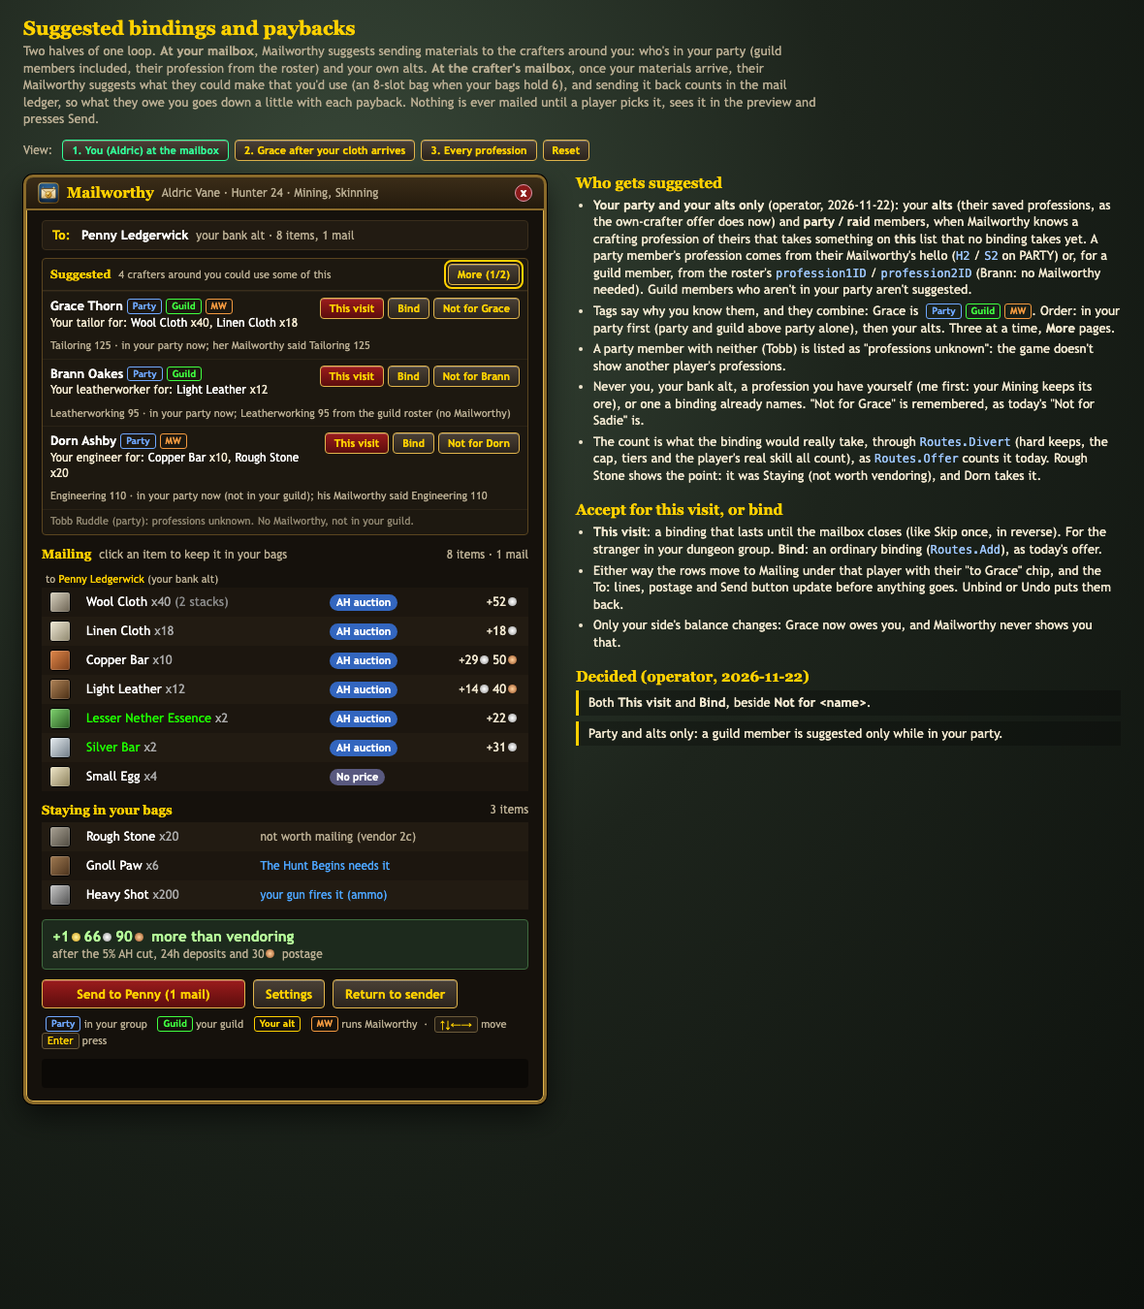
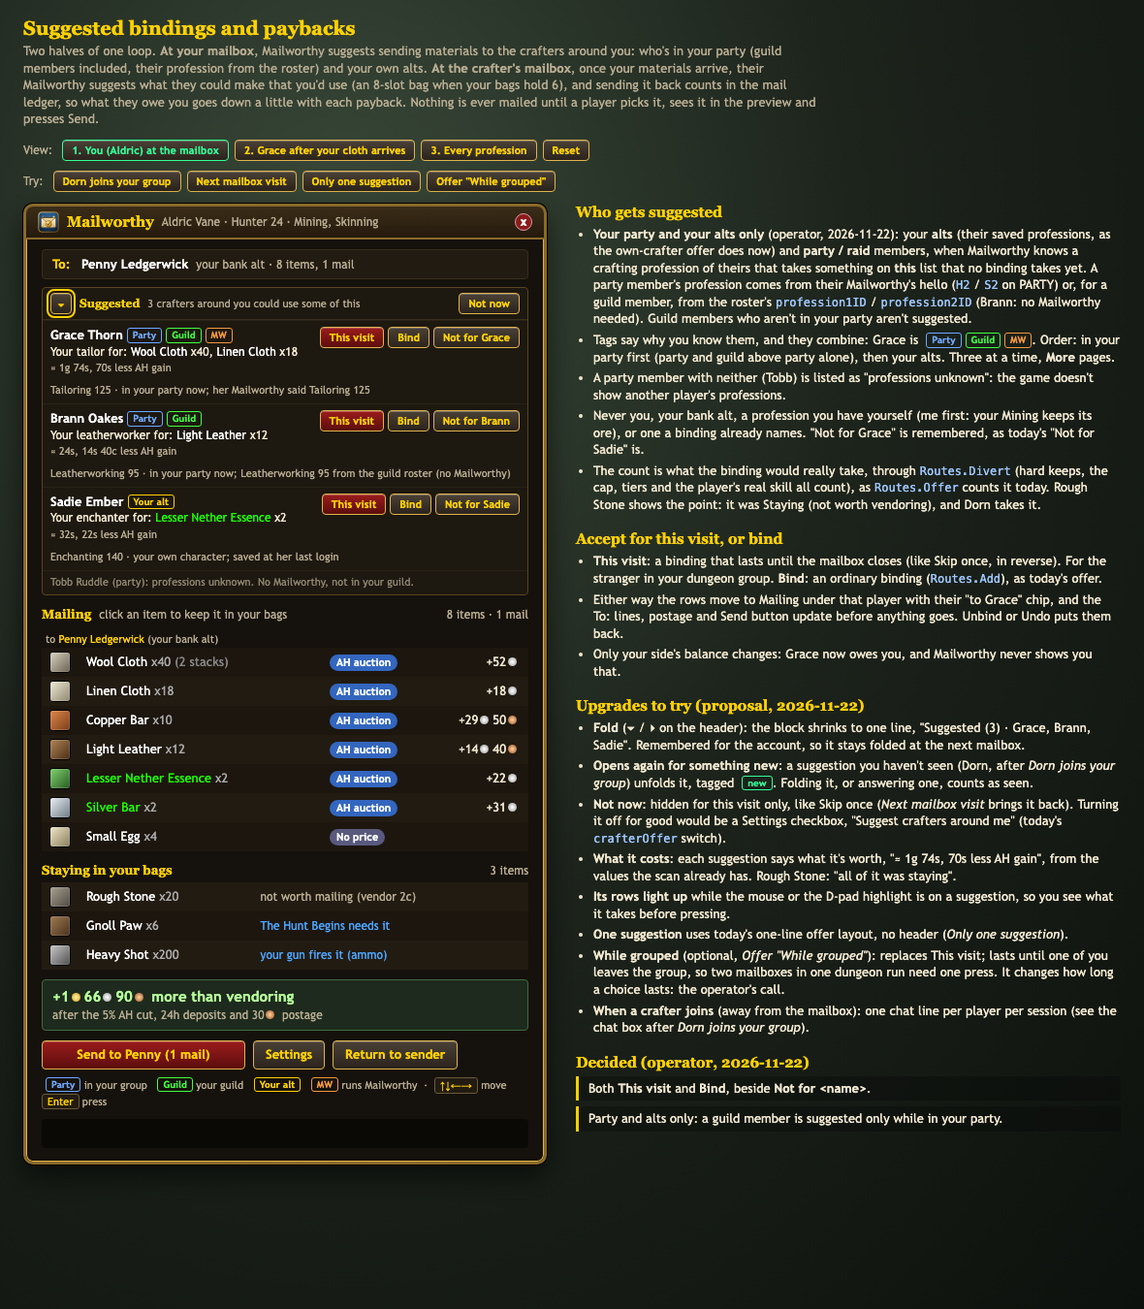
docs: suggestion screen upgrades to try (fold, Not now, cost, row highlight, While grouped, chat lines)
The sheet's "Try:" buttons: a crafter joining (the folded block opens with a
"new" one first), the next mailbox visit, a single suggestion (one-line form),
While grouped instead of This visit, and the crafter opening Tailoring (a chat
line with the payback ideas). Not decided; listed in RECOMMENDATIONS.md 5b.

Changed region(s): [[0.4881, 0.1244, 0.9763, 0.8711], [0.0, 0.1244, 0.4881, 0.9022]]

diff --git a/media/recommendations-prototype.html b/media/recommendations-prototype.html
@@ -77,7 +77,16 @@
   .sugg .head { display: flex; align-items: center; gap: 8px; padding: 5px 8px; border-bottom: 1px solid #3a2e1c; }
   .sugg .head b { color: var(--gold); font: bold 12px Georgia, serif; }
   .sugg .head .dim { color: var(--dim); font-size: 11px; }
-  .sugg .head .btn { margin-left: auto; }
+  .sugg .head .right, .ideas .head .right { margin-left: auto; display: flex; gap: 4px; }
+  .btn.fold { min-width: 0; width: 22px; padding: 0; }
+  .tag.fresh { color: var(--mint); }
+  .cost { color: var(--dim); font-size: 11px; white-space: nowrap; }
+  .s.one .what { font-size: 12px; }
+  .link { color: var(--note); cursor: pointer; text-decoration: underline; }
+  tr.hlrow td { background: #3a3014 !important; }
+  tr.hlrow td:first-child { box-shadow: inset 3px 0 0 var(--gold); }
+  .scen { display: flex; gap: 6px; flex-wrap: wrap; margin: -4px 0 12px; align-items: center; }
+  .scen span.l { color: var(--dim); font-size: 12px; margin-right: 4px; }
   .s { padding: 6px 8px; border-top: 1px solid #2a2216; display: grid; grid-template-columns: 1fr auto; gap: 4px 8px; }
   .s:first-of-type { border-top: 0; }
   .s .nm { color: var(--white); font-weight: bold; }
@@ -193,6 +202,11 @@
 
   <!-- View 1 ============================================================================================== -->
   <div class="view on" id="v1">
+    <div class="scen"><span class="l">Try:</span>
+      <span class="btn grey small" data-scen="dorn">Dorn joins your group</span>
+      <span class="btn grey small" data-scen="nextvisit">Next mailbox visit</span>
+      <span class="btn grey small" data-scen="one">Only one suggestion</span>
+      <span class="btn grey small" data-scen="grouped">Offer "While grouped"</span></div>
     <div class="layout">
       <div style="position:relative">
         <div class="frame" data-frame="v1">
@@ -241,6 +255,23 @@
             Send button update before anything goes. Unbind or Undo puts them back.</li>
           <li>Only your side's balance changes: Grace now owes you, and Mailworthy never shows you that.</li>
         </ul>
+        <h2>Upgrades to try (proposal, 2026-11-22)</h2>
+        <ul>
+          <li><b>Fold</b> (▾ / ▸ on the header): the block shrinks to one line, "Suggested (3) · Grace, Brann, Sadie". Remembered for
+            the account, so it stays folded at the next mailbox.</li>
+          <li><b>Opens again for something new</b>: a suggestion you haven't seen (Dorn, after <i>Dorn joins your group</i>) unfolds
+            it, tagged <span class="tag fresh">new</span>. Folding it, or answering one, counts as seen.</li>
+          <li><b>Not now</b>: hidden for this visit only, like Skip once (<i>Next mailbox visit</i> brings it back). Turning it off for
+            good would be a Settings checkbox, "Suggest crafters around me" (today's <code>crafterOffer</code> switch).</li>
+          <li><b>What it costs</b>: each suggestion says what it's worth, "≈ 1g 74s, 70s less AH gain", from the values the scan
+            already has. Rough Stone: "all of it was staying".</li>
+          <li><b>Its rows light up</b> while the mouse or the D-pad highlight is on a suggestion, so you see what it takes before pressing.</li>
+          <li><b>One suggestion</b> uses today's one-line offer layout, no header (<i>Only one suggestion</i>).</li>
+          <li><b>While grouped</b> (optional, <i>Offer "While grouped"</i>): replaces This visit; lasts until one of you leaves the
+            group, so two mailboxes in one dungeon run need one press. It changes how long a choice lasts: the operator's call.</li>
+          <li><b>When a crafter joins</b> (away from the mailbox): one chat line per player per session (see the chat box after
+            <i>Dorn joins your group</i>).</li>
+        </ul>
         <h2>Decided (operator, 2026-11-22)</h2>
         <div class="q">Both <b>This visit</b> and <b>Bind</b>, beside <b>Not for &lt;name&gt;</b>.</div>
         <div class="q">Party and alts only: a guild member is suggested only while in your party.</div>
@@ -250,6 +281,8 @@
 
   <!-- View 2 ============================================================================================== -->
   <div class="view" id="v2">
+    <div class="scen"><span class="l">Try:</span>
+      <span class="btn grey small" data-scen="tailoring">Open your Tailoring window</span></div>
     <div class="layout">
       <div style="position:relative">
         <div class="frame" data-frame="v2">
@@ -300,6 +333,13 @@
           <li>A payback is valued like any mail, at its auction price. A crafted item with no price (the shirt) is valued at its
             materials, and Aldric's side counts that value only up to what he'd sent Grace: a payback can clear a debt, never make one.</li>
           <li>Only Grace's own side shows. Aldric gets "Grace Thorn made you a Woolen Bag" in chat; he never sees what she owed.</li>
+        </ul>
+        <h2>Upgrades to try (proposal)</h2>
+        <ul>
+          <li><b>At the profession window</b>: opening Tailoring prints one chat line with the ideas she can make right now
+            (<i>Open your Tailoring window</i>). <code>TierCheck</code> already listens to that window's events; nothing is written
+            into Blizzard's window.</li>
+          <li><b>Fold</b> the ideas block to one line (▾ / ▸), as the suggestions block does.</li>
         </ul>
         <h2>Paid in person: Mark part paid</h2>
         <ul>
@@ -436,21 +476,29 @@
     { key: "sadie", name: "Sadie Ember", tags: ["alt"], prof: "Enchanting", craft: "enchanter", skill: 140,
       takes: ["ess"], how: "your own character; saved at her last login" }
   ];
-  var TAGTEXT = { party: "Party", guild: "Guild", alt: "Your alt", mw: "MW", off: "offline" };
+  var TAGTEXT = { party: "Party", guild: "Guild", alt: "Your alt", mw: "MW", fresh: "new" };
   var items1, sugg, page = 0, flash1 = {};
+  // Upgrades (proposal): folded (remembered per account), seen (suggestions the player has already looked at:
+  // a new one opens the block again), notNow (hidden this visit), and the sheet's demo switches.
+  var folded, seen, notNow, dornJoined, grouped, oneOnly;
 
   function reset1() {
     items1 = START1.map(function (it) { return Object.assign({}, it, { locked: false }); });
     sugg = SUGG.map(function (s) { return Object.assign({}, s, { state: null }); });
     page = 0; flash1 = {}; document.getElementById("v1chat").innerHTML = "";
+    folded = false; seen = { grace: true, brann: true, sadie: true }; notNow = false;
+    dornJoined = false; grouped = false; oneOnly = false;
+    document.querySelectorAll("[data-scen]").forEach(function (b) { b.classList.remove("on"); });
   }
   function byKey(key) { return sugg.filter(function (s) { return s.key === key; })[0]; }
   function item1(id) { return items1.filter(function (it) { return it.id === id; })[0]; }
+  function visible(s) { return !(s.key === "dorn" && !dornJoined) && !(oneOnly && s.key !== "grace"); }
+  function accepted(s) { return visible(s) && (s.state === "visit" || s.state === "bound" || s.state === "group"); }
   function takerOf(it) {
     if (it.hard || it.locked) return null;
     for (var i = 0; i < sugg.length; i++) {
       var s = sugg[i];
-      if ((s.state === "visit" || s.state === "bound") && s.takes.indexOf(it.id) >= 0) return s;
+      if (accepted(s) && s.takes.indexOf(it.id) >= 0) return s;
     }
     return null;
   }
@@ -462,41 +510,87 @@
   function takesNow(s) { // rows this suggestion would take (not locked)
     return s.takes.map(item1).filter(function (it) { return !it.locked; });
   }
-  function tagHtml(s) { return s.tags.map(function (t) { return '<span class="tag ' + t + '">' + TAGTEXT[t] + '</span>'; }).join(""); }
+  function tagHtml(s) {
+    return s.tags.map(function (t) { return '<span class="tag ' + t + '">' + TAGTEXT[t] + '</span>'; }).join("")
+      + (!seen[s.key] && !s.state ? '<span class="tag fresh">new</span>' : "");
+  }
+  // What a suggestion would cost: its rows' value, and the AH gain given up for those that were going to the bank alt.
+  function costText(s) {
+    var value = 0, gain = 0, stayed = 0;
+    takesNow(s).forEach(function (it) {
+      value += it.value || 0;
+      if (it.to === "alt" && it.gain) gain += it.gain; else if (!it.to) stayed++;
+    });
+    return '<span class="cost">≈ ' + plain(value) + (gain ? ', ' + plain(gain) + ' less AH gain' : stayed ? ', all of it was staying' : '') + '</span>';
+  }
+  function whatText(s) {
+    return takesNow(s).map(function (it) { return '<span class="q' + it.q + '">' + it.name + '</span> x' + it.count; }).join(", ");
+  }
+  function acceptButtons(s) {
+    if (s.state === "visit") return '<span class="state">this visit</span><span class="btn grey small" data-act="undo" data-k="' + s.key + '">Undo</span>';
+    if (s.state === "group") return '<span class="state">while grouped</span><span class="btn grey small" data-act="undo" data-k="' + s.key + '">Undo</span>';
+    if (s.state === "bound") return '<span class="state">bound</span><span class="btn grey small" data-act="undo" data-k="' + s.key + '">Unbind</span>';
+    return (grouped ? '<span class="btn small" data-act="group" data-k="' + s.key + '">While grouped</span>'
+        : '<span class="btn small" data-act="visit" data-k="' + s.key + '">This visit</span>')
+      + '<span class="btn grey small" data-act="bind" data-k="' + s.key + '">Bind</span>'
+      + '<span class="btn grey small" data-act="decline" data-k="' + s.key + '">Not for ' + first(s.name) + '</span>';
+  }
 
   function renderSugg() {
-    var open = sugg.filter(function (s) { return s.state !== "declined"; });
+    var open = sugg.filter(function (s) { return visible(s) && s.state !== "declined"; });
     var pending = open.filter(function (s) { return !s.state; });
     var box = document.getElementById("sugg");
-    if (!open.length) { box.style.display = "none"; return; }
+    if (!open.length || notNow) { box.style.display = "none"; return; }
     box.style.display = "";
+    var isNew = function (s) { return !s.state && !seen[s.key]; };
+    if (folded && open.some(isNew)) { folded = false; page = 0; } // something new opens it
+    open = open.filter(isNew).concat(open.filter(function (s) { return !isNew(s); })); // new ones on the first page
+
+    // One suggestion: today's one-line offer layout, no header.
+    if (open.length === 1 && !folded) {
+      var o = open[0];
+      box.innerHTML = '<div class="s one' + (o.state ? " done" : "") + '" data-tipk="' + o.key + '"><div><span class="nm">' + o.name + '</span>' + tagHtml(o)
+        + ' <span class="what">is a ' + o.craft + ' in your party. ' + (o.state ? "Sending" : "Send") + ' ' + whatText(o) + (o.state ? "" : "?") + ' ' + costText(o) + '</span></div>'
+        + '<div class="bt">' + acceptButtons(o) + '</div>'
+        + '<div class="meta">' + o.prof + ' ' + o.skill + ' · ' + o.how + ' · <span class="link" data-act="notnow">Not now</span></div></div>';
+      return;
+    }
+
     var pages = Math.ceil(open.length / 3); if (page >= pages) page = 0;
-    var html = '<div class="head"><b>Suggested</b><span class="dim">' + (pending.length ? pending.length + " crafter" + (pending.length === 1 ? "" : "s")
-      + " around you could use some of this" : "all answered") + '</span>'
-      + (pages > 1 ? '<span class="btn grey small" data-act="more">More (' + (page + 1) + '/' + pages + ')</span>' : "") + '</div>';
+    var head = '<div class="head"><span class="btn grey small fold" data-act="fold">' + (folded ? "▸" : "▾") + '</span><b>Suggested</b><span class="dim">';
+    if (folded) head += '(' + open.length + ') · ' + open.map(function (s) { return first(s.name); }).join(", ");
+    else head += pending.length ? pending.length + " crafter" + (pending.length === 1 ? "" : "s") + " around you could use some of this" : "all answered";
+    head += '</span><span class="right">' + (!folded && pages > 1 ? '<span class="btn grey small" data-act="more">More (' + (page + 1) + '/' + pages + ')</span>' : "")
+      + '<span class="btn grey small" data-act="notnow">Not now</span></span></div>';
+    if (folded) { box.innerHTML = head; return; }
+    var html = head;
     open.slice(page * 3, page * 3 + 3).forEach(function (s) {
-      var rows = takesNow(s);
-      var what = rows.map(function (it) { return '<span class="q' + it.q + '">' + it.name + '</span> x' + it.count; }).join(", ");
-      var bt;
-      if (s.state === "visit") bt = '<span class="state">this visit</span><span class="btn grey small" data-act="undo" data-k="' + s.key + '">Undo</span>';
-      else if (s.state === "bound") bt = '<span class="state">bound</span><span class="btn grey small" data-act="undo" data-k="' + s.key + '">Unbind</span>';
-      else bt = '<span class="btn small" data-act="visit" data-k="' + s.key + '">This visit</span>'
-        + '<span class="btn grey small" data-act="bind" data-k="' + s.key + '">Bind</span>'
-        + '<span class="btn grey small" data-act="decline" data-k="' + s.key + '">Not for ' + first(s.name) + '</span>';
+      var what = whatText(s);
       html += '<div class="s' + (s.state ? " done" : "") + '" data-tipk="' + s.key + '"><div><span class="nm">' + s.name + '</span>' + tagHtml(s)
-        + '<div class="what">' + (s.state ? "Sending" : "Your " + s.craft + " for") + ': ' + (what || '<span class="why">nothing on the list now</span>') + '</div></div>'
-        + '<div class="bt">' + bt + '</div>'
+        + '<div class="what">' + (s.state ? "Sending" : "Your " + s.craft + " for") + ': ' + (what || '<span class="why">nothing on the list now</span>')
+        + (what ? ' ' + costText(s) : "") + '</div></div>'
+        + '<div class="bt">' + acceptButtons(s) + '</div>'
         + '<div class="meta">' + s.prof + ' ' + s.skill + ' · ' + s.how + '</div></div>';
     });
-    html += '<div class="unknown">Tobb Ruddle (party): professions unknown. No Mailworthy, not in your guild.</div>';
+    if (!oneOnly) html += '<div class="unknown">Tobb Ruddle (party): professions unknown. No Mailworthy, not in your guild.</div>';
     box.innerHTML = html;
+  }
+  // The rows a suggestion would take, lit while the mouse or the D-pad highlight is on it.
+  function lightRows(key) {
+    var s = key && byKey(key);
+    document.querySelectorAll("tr[data-row]").forEach(function (tr) {
+      tr.classList.toggle("hlrow", !!(s && s.takes.indexOf(tr.dataset.row) >= 0));
+    });
   }
 
   function render1() {
     renderSugg();
-    var RECIP = ["alt"].concat(sugg.filter(function (s) { return s.state === "visit" || s.state === "bound"; }).map(function (s) { return s.key; }));
+    var RECIP = ["alt"].concat(sugg.filter(accepted).map(function (s) { return s.key; }));
     var WHO = { alt: BANK }, NOTE = { alt: "your bank alt" };
-    sugg.forEach(function (s) { WHO[s.key] = s.name; NOTE[s.key] = s.prof + (s.state === "visit" ? ", this visit" : ", binding"); });
+    sugg.forEach(function (s) {
+      WHO[s.key] = s.name;
+      NOTE[s.key] = s.prof + (s.state === "visit" ? ", this visit" : s.state === "group" ? ", while grouped" : ", binding");
+    });
     var html = "", stacks = {}, mails = {}, gain = 0;
     RECIP.forEach(function (k) {
       var g = items1.filter(function (it) { return dest1(it) === k; });
@@ -561,12 +655,12 @@
       mats: [["bolt", 2], ["thread", 1]] }
   ];
   var NOT = "Not suggested: Brown Linen Robe (Aldric wears mail), Linen Bag (6 slots: no bigger than his).";
-  var items2, owedNow, ideaState, made, sent2, flash2 = {}, partAmt = 2000, partArmed = false, inPerson = 0;
+  var items2, owedNow, ideaState, made, sent2, flash2 = {}, partAmt = 2000, partArmed = false, inPerson = 0, ideasFolded = false;
 
   function reset2() {
     items2 = START2.map(function (it) { return Object.assign({}, it); });
     owedNow = DEBT0; ideaState = {}; made = { bag: 0, shirt: 0 }; sent2 = { bag: 0, shirt: 0 }; flash2 = {};
-    partAmt = 2000; partArmed = false; inPerson = 0;
+    partAmt = 2000; partArmed = false; inPerson = 0; ideasFolded = false;
     document.getElementById("v2chat").innerHTML = '<div><span class="mwp">Mailworthy:</span> You took 40 Wool Cloth and 18 Linen Cloth from Aldric Vane (1g 74s).</div>';
   }
   function item2(id) { return items2.filter(function (it) { return it.id === id; })[0]; }
@@ -606,7 +700,9 @@
     var shown = IDEAS.filter(function (i) { return ideaState[i.key] !== "declined" && stillWanted(i) + made[i.key] > 0; });
     if (owedNow <= 0 || !shown.length) { box.style.display = "none"; return; }
     box.style.display = "";
-    var html = '<div class="head"><b>Payback ideas for Aldric</b><span class="dim">from his needs note, 3 min ago · your Tailoring recipes</span></div>';
+    var html = '<div class="head"><span class="btn grey small fold" data-act="ideasfold">' + (ideasFolded ? "▸" : "▾") + '</span><b>Payback ideas for Aldric</b><span class="dim">'
+      + (ideasFolded ? "(" + shown.length + ") · " + shown.map(function (i) { return i.name; }).join(", ") : "from his needs note, 3 min ago · your Tailoring recipes") + '</span></div>';
+    if (ideasFolded) { box.innerHTML = html; return; }
     shown.forEach(function (idea) {
       var n = canMake(idea), left = stillWanted(idea);
       var mats = idea.mats.map(function (m) {
@@ -717,6 +813,8 @@
       focusIdx = 0; refocus(); return;
     }
     if (e.target.id === "reset") { resetAll(); return; }
+    var sc = e.target.closest("[data-scen]");
+    if (sc) { scenario(sc); return; }
     var b = e.target.closest("[data-act]");
     if (b) { act(b); return; }
     var tr = e.target.closest("tr[data-row]");
@@ -726,25 +824,57 @@
     }
   });
 
+  // The sheet's demo buttons (outside the window): things that happen in the world.
+  function scenario(b) {
+    var w = b.dataset.scen;
+    if (w === "dorn") {
+      if (dornJoined) return;
+      dornJoined = true; b.classList.add("on");
+      chat("v1chat", '<span style="color:#aaa">[earlier, out in the world]</span> Dorn Ashby (Engineering) joined your group: he could use 30 of your bars and stone at your next mailbox.');
+    } else if (w === "grouped") { grouped = !grouped; b.classList.toggle("on", grouped); }
+    else if (w === "one") { oneOnly = !oneOnly; b.classList.toggle("on", oneOnly); }
+    else if (w === "tailoring") {
+      var lines = IDEAS.filter(function (i) { return ideaState[i.key] !== "declined" && stillWanted(i) > 0 && canMake(i) > 0; })
+        .map(function (i) { return i.name + " (you have materials for " + Math.min(canMake(i), stillWanted(i)) + ")"; });
+      chat("v2chat", '<span style="color:#aaa">[you open your Tailoring window]</span> ' + (owedNow > 0 && lines.length
+        ? "Payback idea for Aldric Vane: " + lines.join(", ") + ". Make it here, then pick Aldric on its row at the mailbox."
+        : "(no payback ideas right now: nothing is printed)"));
+    } else if (w === "nextvisit") {
+      notNow = false; sugg.forEach(function (x) { if (x.state === "visit") x.state = null; });
+      chat("v1chat", "<span style=\"color:#aaa\">[you close the mailbox and open it again]</span> This-visit choices are cleared; Bind and While grouped stay.");
+    }
+    render();
+  }
+
   function act(b) {
     var a = b.dataset.act, s = b.dataset.k && byKey(b.dataset.k);
     if (b.classList.contains("off")) return;
-    if (a === "visit" || a === "bind") {
-      s.state = a === "visit" ? "visit" : "bound";
+    if (s) seen[s.key] = true; // answering a suggestion counts as having seen it
+    if (a === "visit" || a === "bind" || a === "group") {
+      s.state = a === "bind" ? "bound" : a;
       takesNow(s).forEach(function (it) { flash1[it.id] = "moved"; });
       flash1.to = s.key;
       chat("v1chat", a === "bind"
         ? "Bound: " + s.prof + " materials to " + s.name + ". Check the list, then press Send."
+        : a === "group" ? s.prof + " materials go to " + s.name + " until one of you leaves the group. Check the list, then press Send."
         : s.prof + " materials go to " + s.name + " this visit. Check the list, then press Send.");
     } else if (a === "undo") {
-      chat("v1chat", s.state === "bound" ? "Removed: " + s.prof + " materials to " + s.name + "." : "Not sending to " + s.name + " this visit.");
+      chat("v1chat", s.state === "bound" ? "Removed: " + s.prof + " materials to " + s.name + "." : "Not sending to " + s.name + (s.state === "group" ? " while grouped." : " this visit."));
       s.state = null;
+    } else if (a === "fold") {
+      folded = !folded;
+      if (folded) sugg.forEach(function (x) { if (visible(x)) seen[x.key] = true; }); // folding = "I've seen these"
+    } else if (a === "notnow") {
+      notNow = true;
+      chat("v1chat", "Suggestions hidden for this visit. They're back at your next mailbox.");
+    } else if (a === "ideasfold") {
+      ideasFolded = !ideasFolded;
     } else if (a === "decline") {
       s.state = "declined";
       chat("v1chat", "Won't suggest " + s.name + " for " + s.prof + " again (Settings > Friends brings it back).");
     } else if (a === "more") { page++; }
     else if (a === "send1") {
-      var to = sugg.filter(function (x) { return x.state === "visit" || x.state === "bound"; });
+      var to = sugg.filter(accepted);
       chat("v1chat", "Sent " + (to.length ? "to " + BANK.split(" ")[0] + ", " + to.map(function (x) { return first(x.name); }).join(", ") : "to " + first(BANK)) + ". "
         + (to.some(function (x) { return x.key === "grace"; }) ? "Grace's Mailworthy gets your needs note with the values." : ""));
     } else if (a === "craft") { craft(b.dataset.i); return; }
@@ -784,6 +914,8 @@
     var list = buttons(); if (!list.length) return;
     if (focusIdx >= list.length) focusIdx = list.length - 1;
     list[focusIdx].classList.add("focus");
+    var sk = list[focusIdx].closest("[data-tipk]");
+    lightRows(sk ? sk.dataset.tipk : null);
   }
   document.addEventListener("keydown", function (e) {
     var list = buttons(); if (!list.length) return;
@@ -818,6 +950,8 @@
   }
   document.addEventListener("mousemove", function (e) {
     ["tip1", "tip2"].forEach(function (id) { document.getElementById(id).style.display = "none"; });
+    var sk = e.target.closest && e.target.closest("[data-tipk]");
+    if (sk || e.target.closest(".frame")) lightRows(sk ? sk.dataset.tipk : null);
     var t = tipFor(e); if (!t) return;
     var tip = document.getElementById(t.box), box = tip.parentNode.getBoundingClientRect();
     tip.innerHTML = t.html;

diff --git a/docs/RECOMMENDATIONS.md b/docs/RECOMMENDATIONS.md
@@ -170,6 +170,26 @@ touched (no hook into the profession window: ideas show at the mailbox and in th
 3. `TierCheck` crafts, the needs note, payback ideas for Tailoring bags and Engineering ammo (the two
    clearest checks), then the rest of the table.
 
+## 5b. Upgrades to try (proposal, 2026-11-22; in the sheet's "Try:" buttons)
+
+Not decided. Each is small and reuses what's there; none changes a Safety rule except **While grouped**.
+
+- **Fold** the suggestions block to one line ("Suggested (3) · Grace, Brann, Sadie"), remembered for the
+  account. It **opens again for something new**: a suggestion not seen before is unfolded, tagged "new" and
+  put on the first page; folding or answering one counts as seen. The ideas block folds the same way. (WoW's
+  fonts may lack ▾ / ▸: the built button would say "+" / "−".)
+- **Not now**: hidden for this visit (cleared at `MAIL_CLOSED`, like Skip once). Off for good: a Settings
+  checkbox, "Suggest crafters around me", over the existing `crafterOffer` switch.
+- **What it costs** on each suggestion: "≈ 1g 74s, 70s less AH gain" (the rows' values and the gain the
+  scan gave up), or "all of it was staying".
+- **Its rows light up** while the mouse or the D-pad highlight is on a suggestion.
+- **One suggestion**: today's one-line offer layout, no header.
+- **While grouped** (optional): replaces This visit; lasts until either player leaves the group
+  (`GROUP_ROSTER_UPDATE`). A new binding lifetime, so the operator's call.
+- **Chat lines away from the mailbox**: when a crafter joins the group (one per player per session, like the
+  Trip line); on the crafter's side, when they open the profession window (`TierCheck`'s events), the payback
+  ideas they can make right now. Chat only, nothing written into Blizzard's windows.
+
 ## 6. Decisions (operator, 2026-11-22)
 
 1. A suggestion offers both **This visit** and **Bind** (and Not for <name>).
